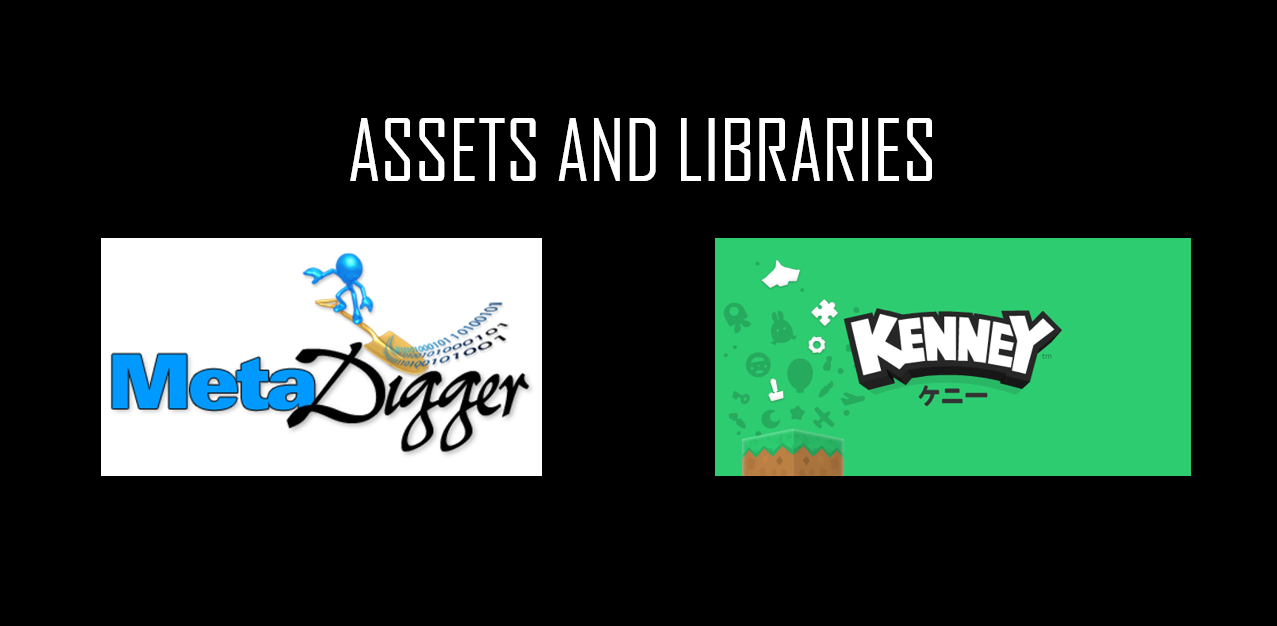
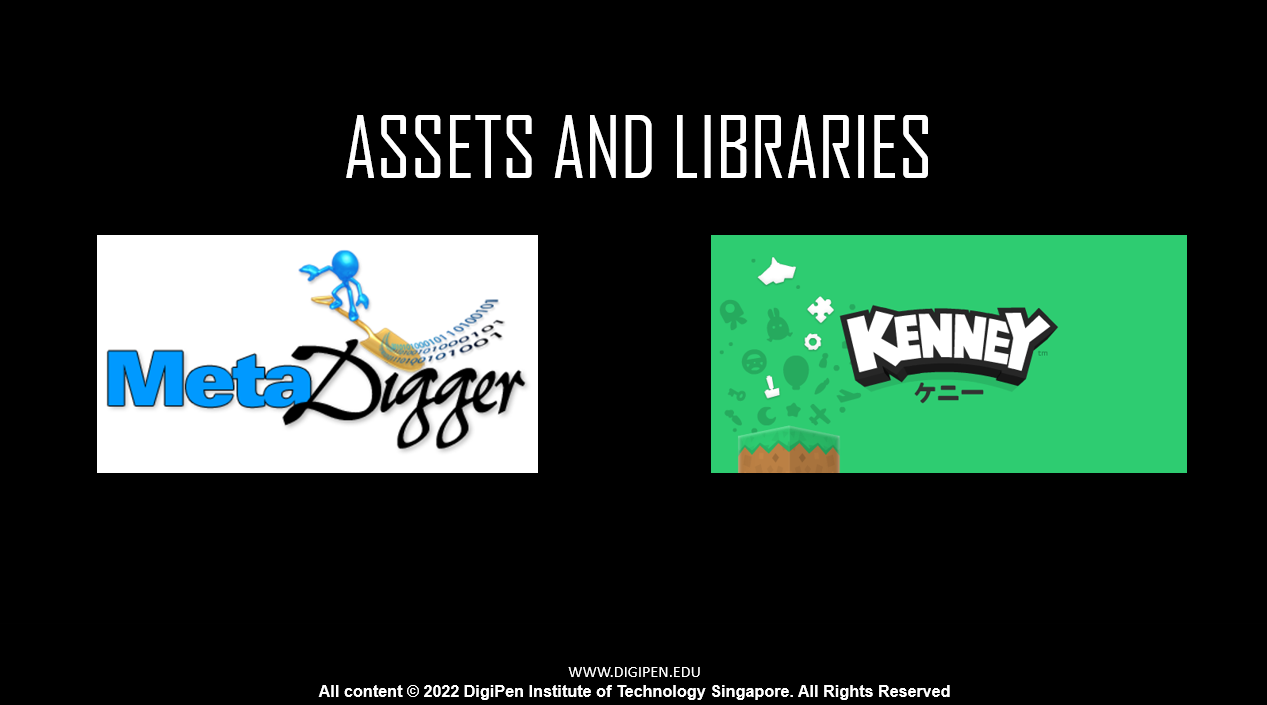
Updated credits screens with copyright text at the bottom

diff --git a/Src/credits.c b/Src/credits.c
@@ -13,8 +13,8 @@ float totalElapsedTime, totalElapsedTime_sec;
 void Credits_Init(void)
 {
 	CP_Settings_ImageMode(CP_POSITION_CENTER);
-	TeamName = CP_Image_Load("./Assets/team_name.png");
-	DigipenExec = CP_Image_Load("./Assets/digipenexec.png");
+	TeamName = CP_Image_Load("./Assets/credits_teamname.png");
+	DigipenExec = CP_Image_Load("./Assets/credits_digipenexec.png");
 	CreditsThanks = CP_Image_Load("./Assets/credits_thanks.png");
 	CreditsCopyright = CP_Image_Load("./Assets/credits_copyright.png");
 	CreditsLast = CP_Image_Load("./Assets/credits_last.png");

diff --git a/Src/level.c b/Src/level.c
@@ -1286,7 +1286,7 @@ void Level_Update()
 	{
 		if (bomb_enemies[i].enemy_draw == TRUE) // DRAW BOMB ENEMY IF ITS STILL ALIVE
 		{
-			CP_Settings_Fill(color_grey);
+			//CP_Settings_Fill(color_grey);
 			//CP_Graphics_DrawRect(bomb_enemies[i].x_position, bomb_enemies[i].y_position, bomb_enemies[i].width, bomb_enemies[i].height);
 			CP_Image_Draw(BombEnemy, bomb_enemies[i].x_position, bomb_enemies[i].y_position, bomb_enemies[i].width, bomb_enemies[i].height, 255);
 		}
